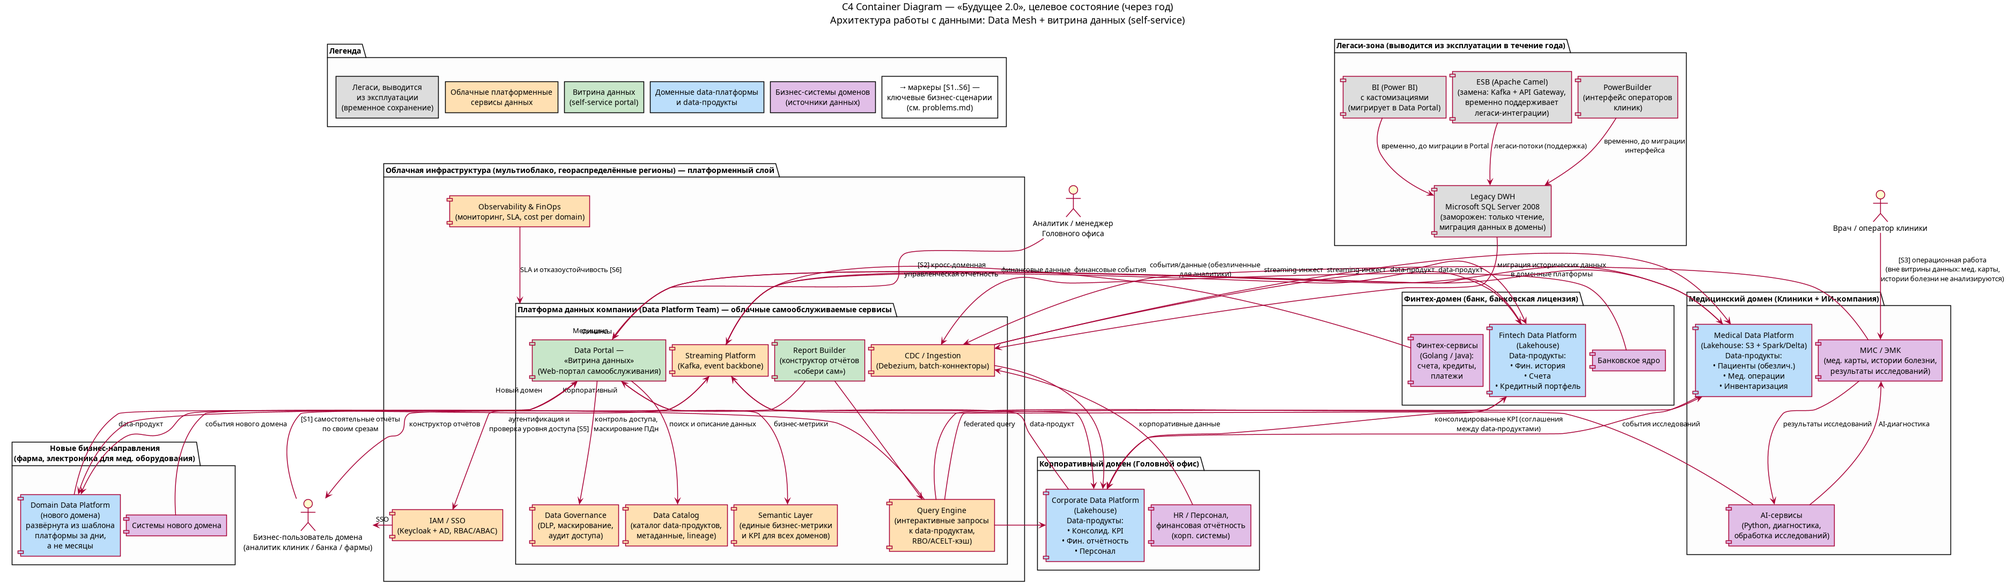
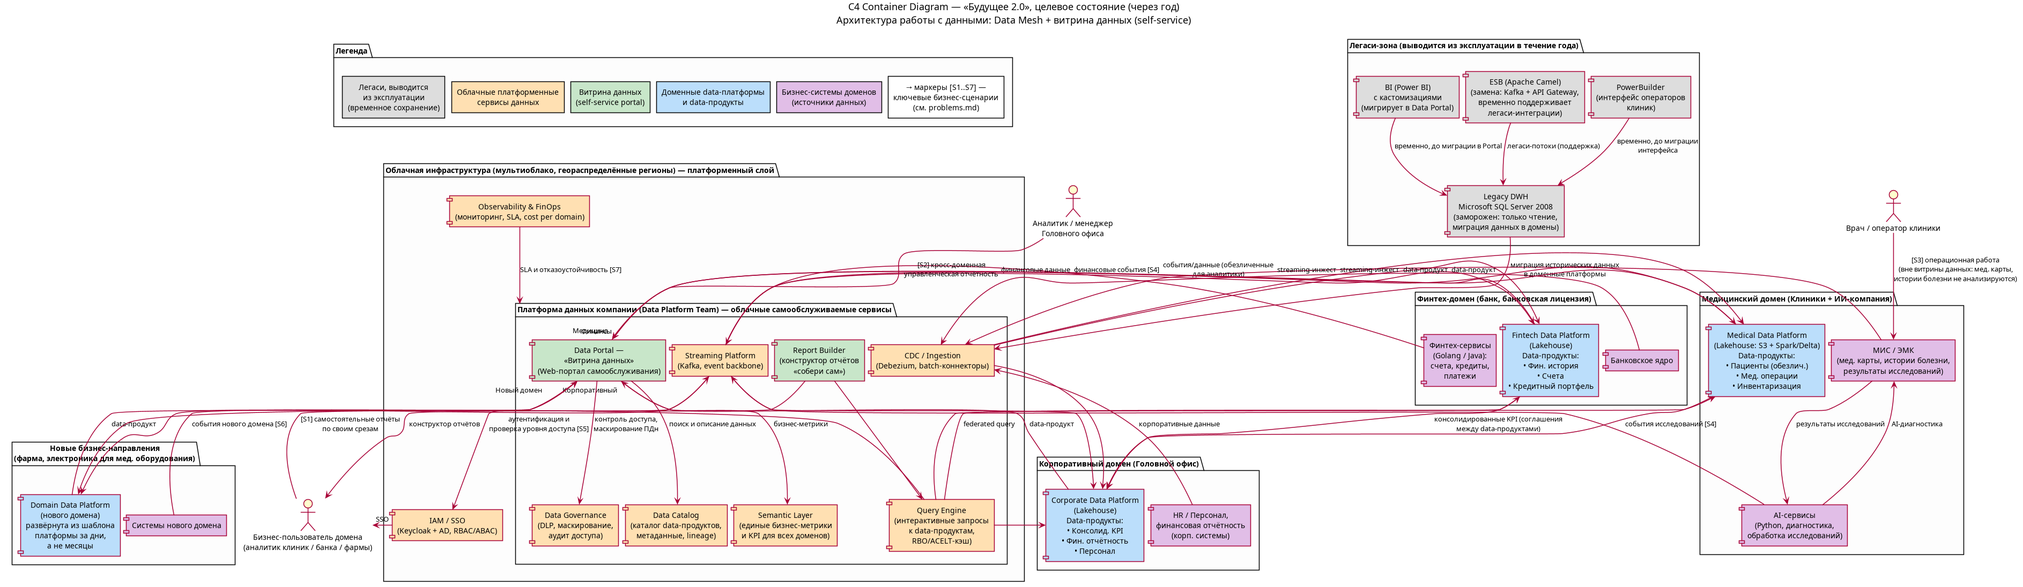
Исправление замечаний после ревью

diff --git a/Task1/esb-decommissioning.md b/Task1/esb-decommissioning.md
@@ -1,0 +1,156 @@
+# Вывод ESB (Apache Camel): переезд интеграционной функциональности
+
+**Связанные документы:**
+
+- Реестр проблем: [`problems.md`](problems.md) (P6 — единая точка отказа ESB/DWH)
+- Целевая архитектура: [`c4-container-diagram.puml`](c4-container-diagram.puml)
+- Приоритизация: [`prioritization.md`](prioritization.md)
+
+## 1. Почему «замены на Kafka + API Gateway» недостаточно
+
+ESB (Apache Camel) сегодня — это не просто «труба» между системами. За годы эксплуатации
+в маршрутах Camel накопилась интеграционная функциональность четырёх классов:
+
+| Класс функциональности ESB             | Примеры в текущем ландшафте                                                                                                         |
+| -------------------------------------- | ----------------------------------------------------------------------------------------------------------------------------------- |
+| **Транспорт и маршрутизация**          | Связывание МИС/ЭМК, банковского ядра, финтех-сервисов, корпоративных систем и DWH по ~100+ интеграциям (HTTP, JMS, FTP, SOAP, JDBC) |
+| **Преобразования** (streaming и batch) | Форматные трансформации (XML↔JSON↔CSV↔ фикс. форматы), обогащение, агрегация, каналы загрузки в DWH                                 |
+| **ФЛК** (форматно-логический контроль) | Проверка схем и структур входящих сообщений/файлов, бизнес-правил, справочников; отбраковка и возврат ошибок                        |
+| **Бизнес-логика интеграций**           | Оркестрация процессов (списание из банка → уведомление в МИС), сведение данных, сквозные бизнес-правила                             |
+| **Паттерны надёжности**                | Retry, DLQ, circuit breaker, идемпотентность, транзакционные гарантии доставки, backpressure                                        |
+
+Если просто «подключить Kafka», все эти функции останутся без владельца: трансформации и ФЛК
+не исчезнут — они переедут или в **домены**, или на **платформу данных**. Ниже — целевое
+распределение и план миграции каждого класса.
+
+## 2. Принцип миграции: «smart endpoints, dumb pipes»
+
+ESB не переносится как единое целое. Целевое распределение его функций:
+
+- **Kafka** — только транспорт событий и буферизация (event backbone), без бизнес-логики;
+- **API Gateway** — только синхронный внешний контур (REST/gRPC для внешних партнёров,
+  мобильных клиентов и клиник), вместе с IAM;
+- **Домены (финтех, медицина, корпоративный)** — бизнес-логика и оркестрации возвращаются
+  в доменные сервисы (Golang/Java), как и логика из DWH (см. P2);
+- **Платформа данных** — преобразования и ФЛК данных (data contracts, Schema Registry,
+  batch-валидация) становятся частью контрактов data-продуктов.
+
+## 3. Миграция преобразований
+
+### 3.1 Потоковые (event-driven) интеграции
+
+| Было в Camel                                                    | Станет в целевой архитектуре                                                                                                           |
+| --------------------------------------------------------------- | -------------------------------------------------------------------------------------------------------------------------------------- |
+| Camel-маршруты «получил сообщение → трансформировал → отправил» | Producer пишет событие в **нормализованном формате** (Avro/Protobuf, JSON-схема в Schema Registry); трансформация на стороне источника |
+| Трансформации «на лету» внутри маршрутов                        | **Kafka Streams / Flink** в доменных data-платформах (Streaming Platform) — обогащение, windowing, агрегация                           |
+| Каналы «система → ESB → DWH» (операционные события в DWH)       | **CDC (Debezium)** напрямую из БД источников → Kafka → инжест в Lakehouse домена; ESB из цепочки исключается                           |
+| Форматные конвертации под каждого потребителя                   | Одна каноническая схема события (data contract) на продюсере; потребители читают свой view через доменные data-продукты                |
+
+Потоковые трансформации, которые обслуживают **операционные** сценарии (не аналитические),
+переносятся внутрь доменных сервисов — например, финтех-сервис сам публикует
+«ПлатёжПроведён» в каноничной схеме, вместо того чтобы Camel конвертировал XML банковского
+ядра под каждого подписчика.
+
+### 3.2 Пакетные интеграции (файлы, массовые выгрузки)
+
+| Было в Camel                                     | Станет в целевой архитектуре                                                                                                          |
+| ------------------------------------------------ | ------------------------------------------------------------------------------------------------------------------------------------- |
+| FTP/файловые каналы через ESB в DWH              | **Batch-коннекторы платформы данных** (Kafka Connect / Spark batch / Airflow-джобы) → S3 Lakehouse домена                             |
+| Периодические выгрузки DWH → системы-потребители | Data-продукты доменов + экспорт из Lakehouse (парт-файлы в S3) или подписка на CDC-поток; витрина данных как источник отчётных срезов |
+| Сложные batch-трансформации (сведение, расчёты)  | Spark/Delta-пайплайны в доменных платформах — под контролем доменной команды, без очереди в центральную интеграционную                |
+
+### 3.3 API-интеграции (синхронные)
+
+- REST/SOAP-проксирование Camel → **API Gateway** (маршрутизация, лимиты, IAM/SSO, версионирование);
+  SOAP-эндпойты легаси-систем остаются за антикоррупционным фасадом до их вывода.
+- Тяжёлые синхронные цепочки переводятся на **async**: «запрос → событие в Kafka → ответ по
+  callback/webhook», чтобы исключить блокирующие зависимости через шину.
+
+## 4. Миграция ФЛК (форматно-логического контроля)
+
+ФЛК в Camel выполнялся на границе «всех со всеми». В целевой модели контроль переезжает
+на контрактную модель и распределяется по уровням:
+
+| Уровень ФЛК                                         | Где выполняется в целевой архитектуре                                                                                                                             |
+| --------------------------------------------------- | ----------------------------------------------------------------------------------------------------------------------------------------------------------------- |
+| **Схемный контроль** (структура, форматы полей)     | На **продюсере** при публикации в Kafka: Avro/JSON-схема проверяется Schema Registry (compatibility-политики); в API Gateway — JSON Schema/OAS-валидация запросов |
+| **Логический контроль** (бизнес-правила)            | **Data Contracts** доменных data-продуктов + валидаторы (Great Expectations / Deequ / Kafka Streams-валидаторы) в доменных платформах                             |
+| **Справочная целостность** (реквизиты, справочники) | В **Semantic Layer** и доменных сервисах: нормализация справочников (ID клиник, счетов) при инжесте в Lakehouse                                                   |
+| **Контроль batch-файлов**                           | Валидационные гейты в Airflow-пайплайнах: schema check → business rules → quarantine                                                                              |
+
+**Обработка ошибок вместо Camel-отбраковки:**
+
+- сообщения, не прошедшие ФЛК, не «молча» отбрасываются, а попадают в
+  **quarantine/DLQ-топики** с метаданными причины — сервисы домена обрабатывают и переотправляют;
+- для batch — **quarantine-зоны в S3** + задачи переобработки в Airflow;
+- статистика ФЛК (доля брака по контрагенту/каналу) — метрика качества данных
+  в Data Catalog и Observability.
+
+Правила ФЛК, зашитые в маршрутах Camel, выгружаются в репозиторий контрактов данных
+(как код) при инвентаризации — иначе они будут потеряны вместе с шиной.
+
+## 5. Миграция бизнес-логики из ESB
+
+| Тип логики в Camel                                                         | Куда переезжает                                                                                                              |
+| -------------------------------------------------------------------------- | ---------------------------------------------------------------------------------------------------------------------------- |
+| **Оркестрации процессов** («шаг 1 → шаг 2 → шаг 3» через несколько систем) | Доменные сервисы (Golang/Java) на паттернах **Saga / Process Manager**; событие-команда через Kafka вместо вызова через шину |
+| **Агрегации и сведение** (собрать ответ из 3 систем)                       | Либо в доменный сервис (для операционных сценариев), либо в data-продукт/Lakehouse (для аналитических)                       |
+| **Сквозные бизнес-правила** (пересчёты, флаги)                             | В домены — вместе с бизнес-логикой из DWH (см. P2); в ESB-замене остаётся только маршрутизация                               |
+| **Роутинг и условия по содержимому** (content-based routing)               | Подписки доменов на топики Kafka + фильтрация на стороне потребителя; сложные условия — в Kafka Streams                      |
+
+Ключевой принцип: **логика не может «переехать в Kafka»** — она обязана получить владельца
+в домене. При инвентаризации каждый маршрут Camel классифицируется: транспорт / трансформация /
+ФЛК / бизнес-логика — и по классу определяется целевой владелец (см. таблицу в §2 и §7).
+
+## 6. Миграция паттернов надёжности
+
+В Camel надёжность обеспечивалась возможностями шины. В событийной архитектуре гарантии
+достигаются иначе:
+
+| Паттерн в ESB (Camel)                               | Целевой аналог на Kafka + доменах                                                                                                                                             |
+| --------------------------------------------------- | ----------------------------------------------------------------------------------------------------------------------------------------------------------------------------- |
+| **Retry** (повторные попытки доставки)              | Ретраи на уровне продюсера (acks=all, retries) + ретраи с backoff в consumer-сервисах; ретраи вне процесса — retry-топики с задержкой (retry topics)                          |
+| **Dead Letter Queue**                               | **DLQ-топики Kafka** (dead-letter queue per consumer group) + переобработка через инструмент домена; ошибки видимы в Observability                                            |
+| **Гарантия доставки** (transactions Camel)          | **At-least-once** по умолчанию; для критичных финтех-потоков — **exactly-once** (транзакции Kafka) или идемпотентный consumer                                                 |
+| **Идемпотентность** (idempotent consumer)           | **Идемпотентный producer** + дедупликация по ключу события (event ID) на consumer-стороне; для БД — upsert по естественному ключу                                             |
+| **Transactional inbox/outbox**                      | **Transactional Outbox + Debezium**: изменения БД публикуются в Kafka гарантированно вместе с транзакцией источника; inbox — для строгой обработки входящих событий в доменах |
+| **Circuit Breaker**                                 | Resilience4j/перемычки в доменных сервисах (для исходящих HTTP/gRPC); асинхронность Kafka снимает каскадные отказы «через шину»                                               |
+| **Backpressure / throttling**                       | Kafka consumer group: масштабирование партициями и consumer'ами; лимиты — в API Gateway для синхронного контура                                                               |
+| **Транзакционная целостность распределённых шагов** | Saga ( choreography через события; компенсирующие транзакции в доменах) вместо XA/транзакций Camel                                                                            |
+| **Мониторинг и SLA маршрутов**                      | Observability-стек: lag consumer group, deadlock-детекты, SLA на end-to-end задержку; вместо метрик Camel-маршрутов                                                           |
+
+## 7. Поэтапный план вывода ESB (strangler fig)
+
+Вывод ESB — поэтапный (см. MoSCoW: «big-bang»-переключение всех интеграций одним релизом —
+Won't have на этот год; полный поэтапный вывод шины за год остаётся в объёме):
+
+1. **Инвентаризация (Q1):** каталог всех маршрутов Camel с классификацией
+   (транспорт / потоковое преобразование / batch-преобразование / ФЛК / бизнес-логика /
+   только проксирование) и владельцем-доменом. Выгрузка правил ФЛК в репозиторий контрактов.
+2. **Подготовка целевых механизмов (Q1–Q2):** Kafka + Schema Registry + CDC-коннекторы в
+   лендинг-зонах, API Gateway с IAM, стандартные retry/DLQ/retry-topic-конвенции платформы.
+3. **Параллельный прогон (Q2–Q3):** новые механизмы работают **параллельно с Camel**
+   (dual-run): событие пишется и в шину, и в Kafka; сверка результатов — критерий включения.
+4. **Перенос групп интеграций (Q2–Q4):** миграция по классам, от простого к сложному:
+   1. чистое проксирование → API Gateway;
+   2. потоковые трансформации → каноничные схемы + Kafka Streams/CDC;
+   3. batch-каналы → batch-коннекторы платформы;
+   4. маршруты с ФЛК → контракты + валидаторы;
+   5. оркестрации с бизнес-логикой → доменные сервисы (Saga/Outbox) — последними,
+      вместе с возвратом бизнес-логики из DWH (P2).
+5. **Вывод (Q4):** остановка Camel-маршрутов после подтверждения параллельного прогона;
+   ESB остаётся в режиме «только чтение» для артефактов, затем выводится из эксплуатации.
+
+## 8. Критерии готовности (чек-лист вывода ESB)
+
+- [ ] Каждый маршрут Camel инвентаризирован и имеет: класс функциональности, домена-владельца,
+      целевой механизм (Kafka / API Gateway / доменный сервис / batch-коннектор).
+- [ ] Все правила ФЛК выгружены в контракты данных; quarantine/DLQ-процесс описан и протестирован.
+- [ ] Для каждой мигрируемой интеграции проведён параллельный прогон (dual-run) со сверкой
+      результатов — минимум один полный бизнес-цикл (например, месяц отчётного периода).
+- [ ] Все потоковые публикации соответствуют каноничным схемам в Schema Registry.
+- [ ] Паттерны надёжности воспроизведены: retry/DLQ/идемпотентность/outbox проверены
+      нагрузочным тестом и отказом узла (chaos-сценарий).
+- [ ] Метрики интеграций переехали в Observability (lag, ошибки ФЛК, SLA end-to-end).
+- [ ] Ни один маршрут с бизнес-логикой не выключен, пока логика не запущена в домене
+      и не сверена с легаси-поведением.

diff --git a/Task1/prioritization.md b/Task1/prioritization.md
@@ -17,12 +17,12 @@
 
 ## 2. Метод MoSCoW
 
-| Категория                                                          | Проблемы                                                                                                            | Обоснование                                                                                                                                                                                                                                                           |
-| ------------------------------------------------------------------ | ------------------------------------------------------------------------------------------------------------------- | --------------------------------------------------------------------------------------------------------------------------------------------------------------------------------------------------------------------------------------------------------------------- |
-| **Must have** — без решения цели года недостижимы                  | **P1** (медленные отчёты), **P2** (логика в DWH), **P6** (единая точка отказа), **P8** (доступы/ИБ)                 | Это прямое нарушение двух главных задач руководства: «витрина данных» (P1, P8) и «интеграция новых направлений без вноса логики в DWH» (P2). P6 блокирует миграцию в облако и требование надёжности. Отчётность через часы = задержка управленческих решений (S1, S2) |
-| **Should have** — важно, но частично компенсируется Must-решениями | **P4** (кастомизации BI), **P5** (SQL Server 2008 / PowerBuilder), **P9** (time-to-market витрин)                   | P4 закрывается вместе с внедрением Data Catalog + Semantic Layer; P5 — планомерный вывод легаси в течение года; P9 — следствие P1/P2, снижается автоматически после их устранения                                                                                     |
-| **Could have** — желательно в горизонте года                       | **P3** (монолит → типовой шаблон доменной платформы для фармы/электроники), **P7** (модернизация интерфейса клиник) | P3 частично покрывается решением P2/P6 (заморозка DWH), полный шаблон онбординга доменов — во вторую очередь; P7 важен, но клиники могут временно работать через мигрированный интерфейс                                                                              |
-| **Won't have (этот год)**                                          | Полная замена всех интеграций ESB на Kafka; расширенный AI-анализ мед. данных                                       | Вывод ESB — поэтапный; мед. карты/исследования **сознательно исключены** из витрины данных по требованию бизнеса — их аналитика не входит в объём                                                                                                                     |
+| Категория                                                          | Проблемы                                                                                                            | Обоснование                                                                                                                                                                                                                                                                                                                                                                                                                                                            |
+| ------------------------------------------------------------------ | ------------------------------------------------------------------------------------------------------------------- | ---------------------------------------------------------------------------------------------------------------------------------------------------------------------------------------------------------------------------------------------------------------------------------------------------------------------------------------------------------------------------------------------------------------------------------------------------------------------- |
+| **Must have** — без решения цели года недостижимы                  | **P1** (медленные отчёты), **P2** (логика в DWH), **P6** (единая точка отказа), **P8** (доступы/ИБ)                 | Это прямое нарушение двух главных задач руководства: «витрина данных» (P1, P8) и «интеграция новых направлений без вноса логики в DWH» (P2). P6 блокирует миграцию в облако и требование надёжности. Отчётность через часы = задержка управленческих решений (S1, S2)                                                                                                                                                                                                  |
+| **Should have** — важно, но частично компенсируется Must-решениями | **P4** (кастомизации BI), **P5** (SQL Server 2008 / PowerBuilder), **P9** (time-to-market витрин)                   | P4 закрывается вместе с внедрением Data Catalog + Semantic Layer; P5 — планомерный вывод легаси в течение года; P9 — следствие P1/P2, снижается автоматически после их устранения                                                                                                                                                                                                                                                                                      |
+| **Could have** — желательно в горизонте года                       | **P3** (монолит → типовой шаблон доменной платформы для фармы/электроники), **P7** (модернизация интерфейса клиник) | P3 частично покрывается решением P2/P6 (заморозка DWH), полный шаблон онбординга доменов — во вторую очередь; P7 важен, но клиники могут временно работать через мигрированный интерфейс                                                                                                                                                                                                                                                                               |
+| **Won't have (этот год)**                                          | «Big-bang»-замена ESB: единовременное переключение всех интеграций одним релизом; расширенный AI-анализ мед. данных | Won't-have — только **способ** замены: переключение всех интеграций разом. Полный поэтапный вывод ESB за год остаётся в объёме (strangler fig: транспорт → преобразования → ФЛК → бизнес-логика; каждая группа интеграций мигрирует после dual-run со сверкой, вывод шины — Q4, см. [`esb-decommissioning.md`](esb-decommissioning.md) §7); мед. карты/исследования **сознательно исключены** из витрины данных по требованию бизнеса — их аналитика не входит в объём |
 
 ## 3. Матрица Эйзенхауэра (важность × срочность)
 
@@ -33,11 +33,11 @@
 
 ## 4. Итоговый порядок работ (дорожная карта на год)
 
-| Очередь       | Проблемы   | Что делаем                                                                                                                                  | Цели бизнеса              | Сценарии   |
-| ------------- | ---------- | ------------------------------------------------------------------------------------------------------------------------------------------- | ------------------------- | ---------- |
-| **Квартал 1** | P8, P6     | Развернуть облачные лендинг-зоны, IAM/SSO, Data Governance; начать CDC-миграцию из DWH                                                      | Комплаенс, надёжность     | S5, S7     |
-| **Квартал 2** | P2, P1     | Развернуть доменные data-платформы (медицина, финтех, корпоративный), перенести первые data-продукты и бизнес-логику из DWH в домены        | Скорость, выручка         | S1, S2, S4 |
-| **Квартал 3** | P1, P4, P9 | Запустить витрину данных: Data Portal + Catalog + Semantic Layer + Report Builder; мигрировать ключевые BI-отчёты; заморозить DWH на запись | Time-to-market            | S1, S2     |
-| **Квартал 4** | P3, P5, P7 | Типовой шаблон доменной платформы для фармы и электроники; вывод PowerBuilder и SQL Server 2008 из эксплуатации; DR-учения                  | Масштабирование, качество | S3, S6, S7 |
+| Очередь       | Проблемы   | Что делаем                                                                                                                                                                                                                                           | Цели бизнеса              | Сценарии   |
+| ------------- | ---------- | ---------------------------------------------------------------------------------------------------------------------------------------------------------------------------------------------------------------------------------------------------- | ------------------------- | ---------- |
+| **Квартал 1** | P8, P6     | Развернуть облачные лендинг-зоны, IAM/SSO, Data Governance; начать CDC-миграцию из DWH                                                                                                                                                               | Комплаенс, надёжность     | S5, S7     |
+| **Квартал 2** | P2, P1     | Развернуть доменные data-платформы (медицина, финтех, корпоративный), перенести первые data-продукты и бизнес-логику из DWH в домены                                                                                                                 | Скорость, выручка         | S1, S2, S4 |
+| **Квартал 3** | P1, P4, P9 | Запустить витрину данных: Data Portal + Catalog + Semantic Layer + Report Builder; мигрировать ключевые BI-отчёты; остановить рост логики в DWH (правило «новая логика не попадает в DWH»); запись в DWH сохраняется до переключения всех источников | Time-to-market            | S1, S2     |
+| **Квартал 4** | P3, P5, P7 | Типовой шаблон доменной платформы для фармы и электроники; переключение последних источников записи (PowerBuilder, легаси-потоки ESB), DWH → read-only после верификации сверков; вывод PowerBuilder и SQL Server 2008 из эксплуатации; DR-учения    | Масштабирование, качество | S3, S6, S7 |
 
 **Критерий успеха:** бизнес-пользователи доменов строят отчёты сами за минуты (P1, P9 закрыты), новые бизнесы подключаются без изменений в центральном ядре (P2, P3 закрыты), легаси DWH выведен или заморожен только на чтение (P5, P6 закрыты), доступ разграничен по доменам и срезам (P8 закрыт).

diff --git a/Task3/roadmap.md b/Task3/roadmap.md
@@ -67,11 +67,11 @@
 | Корпоративная Lakehouse + консолидированные KPI для головного офиса                                               |
 | Data Quality-проверки на входе в data-продукты                                                                    |
 
-| Ожидаемый результат                                                                                          | Ответственные                                                                         | Ресурсы                                                                                              |
-| ------------------------------------------------------------------------------------------------------------ | ------------------------------------------------------------------------------------- | ---------------------------------------------------------------------------------------------------- |
-| Портал в проде; ≥200 активных пользователей; отчёт строится ≤5 минут (против часов); DWH заморожен на запись | Платформенная команда (портал) + все доменные команды + BI-команда (миграция отчётов) | 3 разработчика портала (TS/React), 2 инженера semantic layer, 1 инженер на домен для миграции витрин |
+| Ожидаемый результат                                                                                                                                               | Ответственные                                                                         | Ресурсы                                                                                              |
+| ----------------------------------------------------------------------------------------------------------------------------------------------------------------- | ------------------------------------------------------------------------------------- | ---------------------------------------------------------------------------------------------------- |
+| Портал в проде; ≥200 активных пользователей; отчёт строится ≤5 минут (против часов); запись в DWH сохраняется до завершения переключения всех источников (Этап 3) | Платформенная команда (портал) + все доменные команды + BI-команда (миграция отчётов) | 3 разработчика портала (TS/React), 2 инженера semantic layer, 1 инженер на домен для миграции витрин |
 
-**Обоснование:** прямое закрытие P1/P9 (часы→минуты) — ускоряет принятие управленческих решений (B1, B2); заморозка DWH останавливает рост долга (P2). Замена BI-кастомизаций едиными метриками устраняет расхождения цифр — качество решений. Эффект: скорость решений, снижение затрат на поддержку BI-зоопарка.
+**Обоснование:** прямое закрытие P1/P9 (часы→минуты) — ускоряет принятие управленческих решений (B1, B2); правило «новая логика не попадает в DWH» останавливает рост долга (P2). Важно: DWH не переводится в read-only на этом этапе — PowerBuilder и легаси-потоки ESB ещё пишут в него, преждевременная заморозка привела бы к потере операций в переходный период. Замена BI-кастомизаций едиными метриками устраняет расхождения цифр — качество решений. Эффект: скорость решений, снижение затрат на поддержку BI-зоопарка.
 
 ---
 
@@ -79,17 +79,18 @@
 
 **Цель бизнеса:** масштабирование экосистемы (фарма, электроника) и завершение ухода от легаси.
 
-| Что делаем                                                                                    |
-| --------------------------------------------------------------------------------------------- |
-| Онбординг фарма- и электронного доменов из типового шаблона платформы (IaC)                   |
-| Контрактная публикация обезличенных спросовых срезов для фармы; приём телеметрии оборудования |
-| Завершение миграции срезов из DWH; DWH → read-only → вывод из эксплуатации                    |
-| Замена PowerBuilder современным интерфейсом МИС/ЭМК; демонтаж ESB                             |
-| DR-учения по всем критичным контурам; FinOps-оптимизация облачных затрат                      |
+| Что делаем                                                                                                                    |
+| ----------------------------------------------------------------------------------------------------------------------------- |
+| Онбординг фарма- и электронного доменов из типового шаблона платформы (IaC)                                                   |
+| Контрактная публикация обезличенных спросовых срезов для фармы; приём телеметрии оборудования                                 |
+| Замена PowerBuilder современным интерфейсом МИС/ЭМК; переключение оставшихся легаси-потоков ESB на Kafka/доменные сервисы     |
+| Верификация переключения: все источники записи в DWH переведены, контрольные сверки данных (объём/контрольные суммы) пройдены |
+| **Гейт:** после подтверждения верификации — DWH → read-only → наблюдение → вывод из эксплуатации; завершение миграции срезов  |
+| DR-учения по всем критичным контурам; FinOps-оптимизация облачных затрат                                                      |
 
-| Ожидаемый результат                                                           | Ответственные                                                                   | Ресурсы                                                                                              |
-| ----------------------------------------------------------------------------- | ------------------------------------------------------------------------------- | ---------------------------------------------------------------------------------------------------- |
-| 2 новых домена в проде; DWH выведен; ESB выведен; DR-планы проверены учениями | Доменные команды D-PART + платформенная команда + домены D-MED/D-FIN (демонтаж) | 2–3 инженера на новый домен (в основном шаблон + настройка), 1 команда на миграцию интерфейса клиник |
+| Ожидаемый результат                                                                                                                       | Ответственные                                                                   | Ресурсы                                                                                              |
+| ----------------------------------------------------------------------------------------------------------------------------------------- | ------------------------------------------------------------------------------- | ---------------------------------------------------------------------------------------------------- |
+| 2 новых домена в проде; DWH выведен после верифицированного переключения всех источников записи; ESB выведен; DR-планы проверены учениями | Доменные команды D-PART + платформенная команда + домены D-MED/D-FIN (демонтаж) | 2–3 инженера на новый домен (в основном шаблон + настройка), 1 команда на миграцию интерфейса клиник |
 
 **Обоснование:** онбординг из шаблона доказывает масштабируемость модели (B5) — следующий бизнес подключается за недели; вывод DWH/ESB/PowerBuilder снижает затраты на поддержку устаревшего оборудования и лицензий (P5) и закрывает риски неподдерживаемого стека. Эффект: масштабирование, снижение TCO, качество сервиса (DR-учения).
 
@@ -97,12 +98,12 @@
 
 ## Сводная таблица этапов
 
-| Этап | Срок     | Ключевой результат                                 | Сценарии          | Главная бизнес-выгода         |
-| ---- | -------- | -------------------------------------------------- | ----------------- | ----------------------------- |
-| 0    | мес 1–2  | Лендинг-зоны, IAM, Governance, DR-политика         | безопасность всех | комплаенс, снятие блокеров    |
-| 1    | мес 3–5  | Kafka+CDC, 2 Lakehouse, data-продукты              | B4, B6 (старт)    | скорость интеграции финтеха   |
-| 2    | мес 6–8  | Витрина данных в проде, DWH заморожен              | B1, B2, B6        | решения за минуты, не часы    |
-| 3    | мес 9–12 | Партнёры из шаблона, DWH/ESB/PowerBuilder выведены | B5, B6, S3        | масштабирование, снижение TCO |
+| Этап | Срок     | Ключевой результат                                                                                               | Сценарии          | Главная бизнес-выгода         |
+| ---- | -------- | ---------------------------------------------------------------------------------------------------------------- | ----------------- | ----------------------------- |
+| 0    | мес 1–2  | Лендинг-зоны, IAM, Governance, DR-политика                                                                       | безопасность всех | комплаенс, снятие блокеров    |
+| 1    | мес 3–5  | Kafka+CDC, 2 Lakehouse, data-продукты                                                                            | B4, B6 (старт)    | скорость интеграции финтеха   |
+| 2    | мес 6–8  | Витрина данных в проде, рост логики в DWH остановлен                                                             | B1, B2, B6        | решения за минуты, не часы    |
+| 3    | мес 9–12 | Партнёры из шаблона; после верифицированного переключения всех источников записи — DWH/ESB/PowerBuilder выведены | B5, B6, S3        | масштабирование, снижение TCO |
 
 ## Метрики успеха (через 12 месяцев)
 

diff --git a/Task3/README.md b/Task3/README.md
@@ -2,15 +2,15 @@
 
 ## Состав решения
 
-| Файл/директория                                                                  | Содержание                                                                                               |
-| -------------------------------------------------------------------------------- | -------------------------------------------------------------------------------------------------------- |
-| [`tech-radar.md`](tech-radar.md)                                                 | Техрадар в табличной форме: 4 квадранта × 4 кольца, с привязкой каждой технологии к бизнес-сценариям     |
-| [`roadmap.md`](roadmap.md)                                                       | Роадмап на 12 месяцев: 4 этапа с результатами, командами, ресурсами и бизнес-обоснованием                |
-| [`practicum-techradar/`](practicum-techradar/)                                   | Интерактивный техрадар на генераторе [`aoe_technology_radar`](https://github.com/AOEpeople/techradar) v4 |
-| [`practicum-techradar/build/`](practicum-techradar/build/)                       | Собранная статическая версия радара                                                                      |
-| [`practicum-techradar/radar/2026-11-09/`](practicum-techradar/radar/2026-11-09/) | 27 карточек технологий (markdown)                                                                        |
-| [`techradar-main.png`](techradar-main.png)                                       | Скриншот радара (главная страница с диаграммой и списком)                                                |
-| [`techradar-overview.png`](techradar-overview.png)                               | Скриншот страницы «Обзор» (полный список технологий по кольцам)                                          |
+| Файл/директория                                                                  | Содержание                                                                                                                 |
+| -------------------------------------------------------------------------------- | -------------------------------------------------------------------------------------------------------------------------- |
+| [`tech-radar.md`](tech-radar.md)                                                 | Техрадар в табличной форме: 4 квадранта × 4 кольца, с привязкой каждой технологии к бизнес-сценариям                       |
+| [`roadmap.md`](roadmap.md)                                                       | Роадмап на 12 месяцев: 4 этапа с результатами, командами, ресурсами и бизнес-обоснованием                                  |
+| [`practicum-techradar/`](practicum-techradar/)                                   | Интерактивный техрадар на генераторе [`aoe_technology_radar`](https://github.com/AOEpeople/techradar) v4                   |
+| [`practicum-techradar/build/`](practicum-techradar/build/)                       | Собранная статическая версия радара                                                                                        |
+| [`practicum-techradar/radar/2026-11-09/`](practicum-techradar/radar/2026-11-09/) | 30 карточек технологий (markdown): 8 методологий и паттернов, 8 платформ и операций, 10 инструментов, 4 языка и фреймворка |
+| [`techradar-main.png`](techradar-main.png)                                       | Скриншот радара (главная страница с диаграммой и списком)                                                                  |
+| [`techradar-overview.png`](techradar-overview.png)                               | Скриншот страницы «Обзор» (полный список технологий по кольцам)                                                            |
 
 ## Как посмотреть радар
 
@@ -25,7 +25,7 @@ npm run serve        # dev-версия: http://localhost:3000/techradar
 
 **Техрадар** показывает движение ландшафта: в **Adopt** — облачная платформа, Kafka, CDC, Lakehouse, витрина данных, Data Mesh, DDD, IAM; в **Trial** — каталог, semantic layer, контракты данных, GitOps, DevSecOps, Observability, Data Governance; в **Assess** — MLOps; в **Hold** — легаси (SQL Server 2008, ESB Camel, PowerBuilder, BI-кастомизации, Power BI). Каждая карточка связана с бизнес-сценариями B1–B6.
 
-**Роадмап** — 4 этапа: (0) фундамент ИБ/комплаенс → (1) интеграционный слой + миграция DWH → (2) витрина данных в проде + заморозка DWH → (3) онбординг партнёров + вывод легаси + DR-учения. Для каждого этапа указаны ожидаемые результаты, ответственные команды, ресурсы и бизнес-обоснование (скорость решений, качество сервиса, снижение затрат, масштабирование).
+**Роадмап** — 4 этапа: (0) фундамент ИБ/комплаенс → (1) интеграционный слой + миграция DWH → (2) витрина данных в проде + остановка роста логики в DWH → (3) онбординг партнёров + переключение последних источников записи (PowerBuilder, ESB) с верификацией и только затем read-only/вывод легаси + DR-учения. Для каждого этапа указаны ожидаемые результаты, ответственные команды, ресурсы и бизнес-обоснование (скорость решений, качество сервиса, снижение затрат, масштабирование).
 
 ## Техрадар: как пересобрать
 

diff --git a/Task1/problems.md b/Task1/problems.md
@@ -34,15 +34,15 @@
 
 ## Как целевая архитектура закрывает проблемы (сводка)
 
-| Проблема | Решение в целевой архитектуре (через год)                                                                            |
-| -------- | -------------------------------------------------------------------------------------------------------------------- |
-| P1       | Data-продукты на Lakehouse в каждом домене + интерактивный Query Engine: отчёт за минуты (S1, S2)                    |
-| P2       | Бизнес-логика возвращается в домены (финтех-сервисы, ИИ-сервисы, data-продукты); DWH замораживается и мигрирует (S4) |
-| P3       | Data Mesh: новый домен разворачивает типовую платформу из шаблона (S6)                                               |
-| P4       | Data Catalog + Semantic Layer: единые сертифицированные метрики; BI-кастомизации мигрируют в Report Builder (S1, S2) |
-| P5       | Миграция в облако, SQL Server 2008 и PowerBuilder выводятся из эксплуатации (S5, S7)                                 |
-| P6       | Kafka (event backbone) + геораспределённое развёртывание, RB/DR per домен (S7)                                       |
-| P7       | Клиники переходят на современный интерфейс МИС/ЭМК; PowerBuilder выводится (S3)                                      |
-| P8       | IAM (RBAC/ABAC) + Data Governance: доступ на уровне среза, маскирование, аудит (S1, S5)                              |
-| P9       | Self-service портал: аналитик сам строит отчёты и витрины (S1, S4, S6)                                               |
-| P10      | ЭМК остаётся в медицинском домене; в витрину данных попадают только обезличенные операционные срезы (S3, S5)         |
+| Проблема | Решение в целевой архитектуре (через год)                                                                                                                                                                                                       |
+| -------- | ----------------------------------------------------------------------------------------------------------------------------------------------------------------------------------------------------------------------------------------------- |
+| P1       | Data-продукты на Lakehouse в каждом домене + интерактивный Query Engine: отчёт за минуты (S1, S2)                                                                                                                                               |
+| P2       | Бизнес-логика возвращается в домены (финтех-сервисы, ИИ-сервисы, data-продукты); DWH замораживается и мигрирует (S4)                                                                                                                            |
+| P3       | Data Mesh: новый домен разворачивает типовую платформу из шаблона (S6)                                                                                                                                                                          |
+| P4       | Data Catalog + Semantic Layer: единые сертифицированные метрики; BI-кастомизации мигрируют в Report Builder (S1, S2)                                                                                                                            |
+| P5       | Миграция в облако, SQL Server 2008 и PowerBuilder выводятся из эксплуатации (S5, S7)                                                                                                                                                            |
+| P6       | Kafka (event backbone) + геораспределённое развёртывание, RB/DR per домен (S7); поэтапный вывод ESB: переезд преобразований (потоковых и batch), ФЛК, бизнес-логики и паттернов надёжности — [`esb-decommissioning.md`](esb-decommissioning.md) |
+| P7       | Клиники переходят на современный интерфейс МИС/ЭМК; PowerBuilder выводится (S3)                                                                                                                                                                 |
+| P8       | IAM (RBAC/ABAC) + Data Governance: доступ на уровне среза, маскирование, аудит (S1, S5)                                                                                                                                                         |
+| P9       | Self-service портал: аналитик сам строит отчёты и витрины (S1, S4, S6)                                                                                                                                                                          |
+| P10      | ЭМК остаётся в медицинском домене; в витрину данных попадают только обезличенные операционные срезы (S3, S5)                                                                                                                                    |

diff --git a/Task1/README.md b/Task1/README.md
@@ -2,12 +2,13 @@
 
 ## Состав решения
 
-| Файл                                                     | Содержание                                                                  |
-| -------------------------------------------------------- | --------------------------------------------------------------------------- |
-| [`c4-container-diagram.puml`](c4-container-diagram.puml) | C4-диаграмма контейнеров целевой архитектуры (через год), исходник PlantUML |
-| [`c4-container-diagram.png`](c4-container-diagram.png)   | Диаграмма в PNG (готова к загрузке/просмотру)                               |
-| [`problems.md`](problems.md)                             | Анализ проблемных мест (P1–P10) с привязкой к бизнес-сценариям (S1–S7)      |
-| [`prioritization.md`](prioritization.md)                 | Приоритизация проблем: MoSCoW + матрица Эйзенхауэра + дорожная карта        |
+| Файл                                                     | Содержание                                                                                             |
+| -------------------------------------------------------- | ------------------------------------------------------------------------------------------------------ |
+| [`c4-container-diagram.puml`](c4-container-diagram.puml) | C4-диаграмма контейнеров целевой архитектуры (через год), исходник PlantUML                            |
+| [`c4-container-diagram.png`](c4-container-diagram.png)   | Диаграмма в PNG (готова к загрузке/просмотру)                                                          |
+| [`problems.md`](problems.md)                             | Анализ проблемных мест (P1–P10) с привязкой к бизнес-сценариям (S1–S7)                                 |
+| [`prioritization.md`](prioritization.md)                 | Приоритизация проблем: MoSCoW + матрица Эйзенхауэра + дорожная карта                                   |
+| [`esb-decommissioning.md`](esb-decommissioning.md)       | План вывода ESB: переезд преобразований (потоковых и batch), ФЛК, бизнес-логики и паттернов надёжности |
 
 ## Суть архитектурного решения
 
@@ -26,6 +27,9 @@
    по уровню доступа пользователя.
 3. **Kafka как event backbone + CDC** — замена старой шины ESB;
    streaming-инжест событий из финтех-, ИИ- и медицинских систем.
+   Замена транспорта — только часть вывода ESB: трансформации (потоковые и batch),
+   ФЛК, бизнес-логика интеграций и паттерны надёжности переезжают по отдельному
+   плану — см. [`esb-decommissioning.md`](esb-decommissioning.md).
 4. **Медицинские данные не анализируются в витрине**: мед. карты, истории
    болезни и результаты исследований остаются в контуре медицинского домена
    (МИС/ЭМК + ИИ-сервисы); в витрину попадают только обезличенные
@@ -36,7 +40,10 @@
 6. **Платформенные сервисы**: IAM (RBAC/ABAC), Data Governance (маскирование,
    аудит), Observability/FinOps, геораспределённое развёртывание и DR.
 
-Поддержка ключевых бизнес-сценариев отмечена на диаграмме маркерами **[S1..S6]**.
+Поддержка ключевых бизнес-сценариев S1–S7 (см. [`problems.md`](problems.md)) отмечена на диаграмме
+маркерами **[S1..S7]**: [S1]/[S2] — работа с витриной данных, [S3] — операционный контур клиник
+вне витрины, [S4] — публикация событий доменами в Kafka (независимое развитие), [S5] — доступ
+по уровню доступа, [S6] — подключение нового домена, [S7] — Observability/отказоустойчивость.
 
 ## Как перегенерировать диаграмму
 
